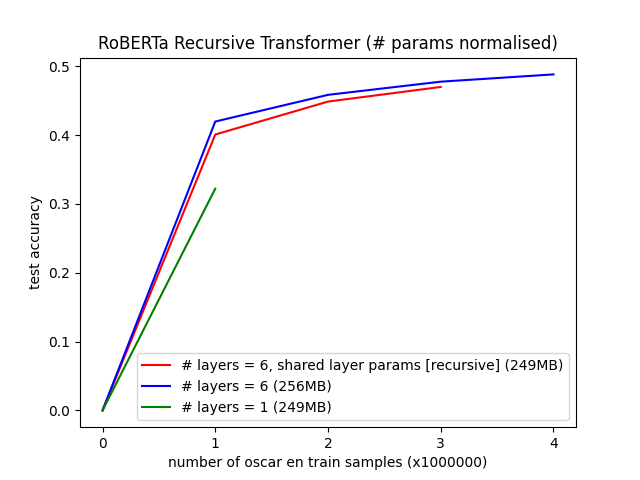
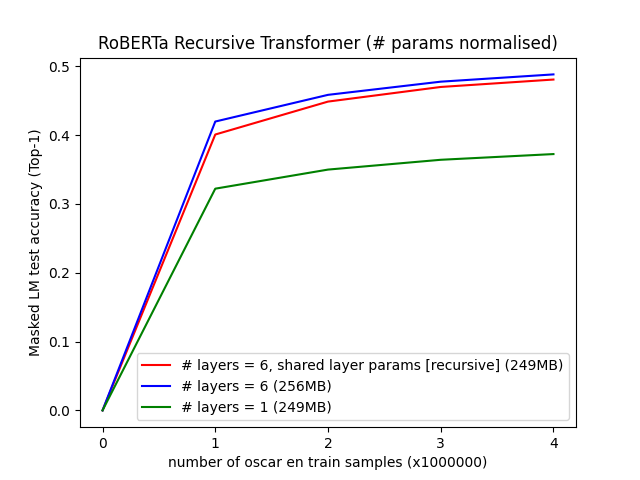
update graph RobertaRecursiveTransformer

diff --git a/graph/RobertaRecursiveTransformer.py b/graph/RobertaRecursiveTransformer.py
@@ -2,9 +2,9 @@ import matplotlib.pyplot as plt
 import numpy as np
 
 x = np.array([0, 1, 2, 3, 4])
-y1 = np.array([0, 0.4007114856934547, 0.4485383033657074, 0.4697808350682259, np.nan])
+y1 = np.array([0, 0.4007114856934547, 0.4485383033657074, 0.4697808350682259, 0.4805689078116417])
 y2 = np.array([0, 0.4195622387599945, 0.45833434972524645, 0.477471009747982, 0.4880324535870552])
-y3 = np.array([0, 0.32205438960790633, np.nan, np.nan, np.nan])
+y3 = np.array([0, 0.32205438960790633, 0.34977506301760675, 0.3640139799118042, 0.3723136756336689])
 
 l1, = plt.plot(x, y1, color='r', label='# layers = 6, shared layer params [recursive] (249MB)')
 l2, = plt.plot(x, y2, color='b', label='# layers = 6 (256MB)')
@@ -14,7 +14,7 @@ l3, = plt.plot(x, y3, color='g', label='# layers = 1 (249MB)')
 plt.xticks(np.arange(min(x), max(x)+1, 1.0))
 
 plt.xlabel("number of oscar en train samples (x1000000)")
-plt.ylabel("test accuracy")
+plt.ylabel("Masked LM test accuracy (Top-1)")
 plt.title("RoBERTa Recursive Transformer (# params normalised)")
 
 plt.legend(handles=[l1, l2, l3])
